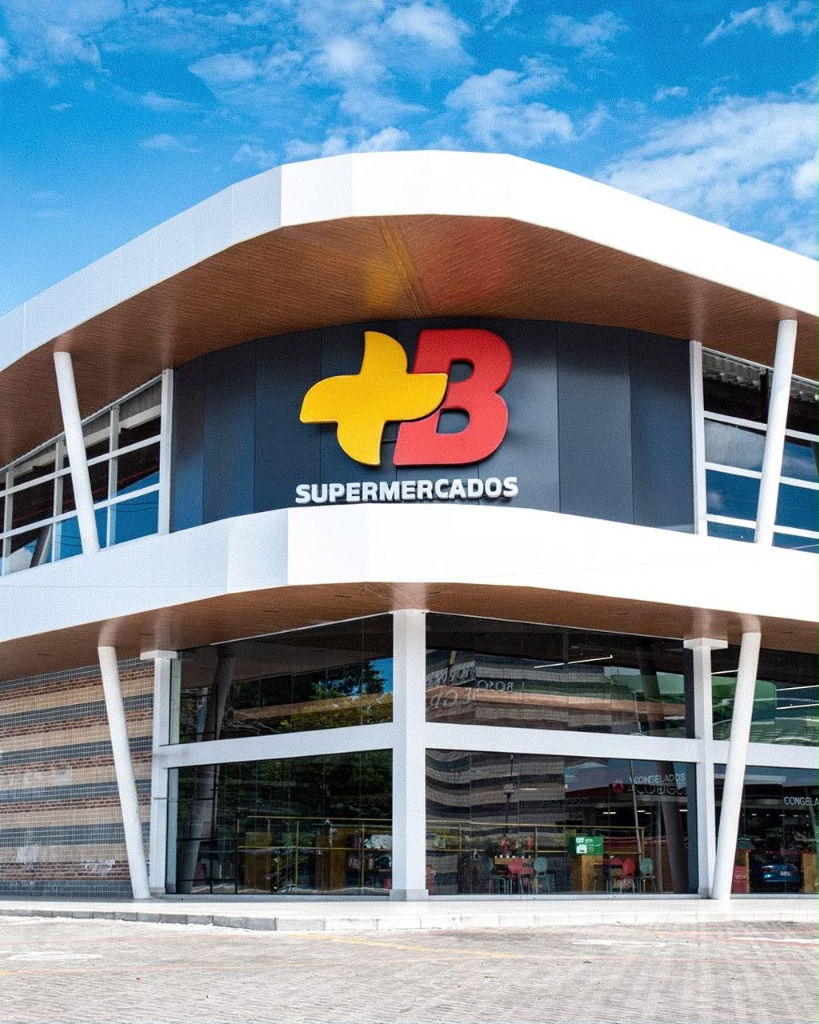
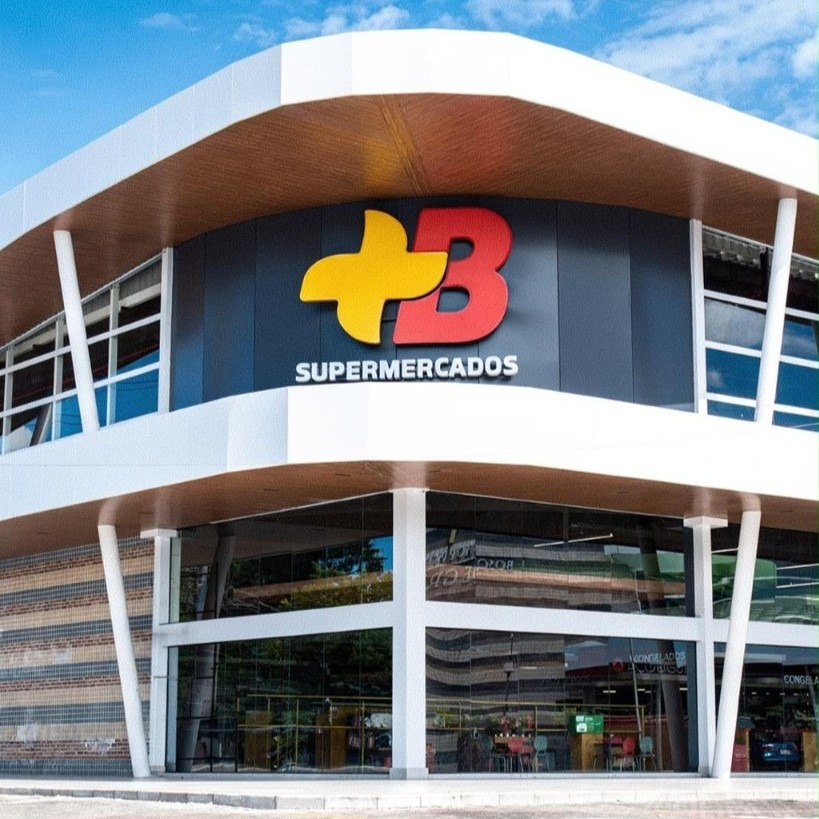
feat(home): atualiza foto da fachada s2 para proporcao 1:1 e container de 500px

diff --git a/index.html b/index.html
@@ -17,7 +17,7 @@
   <link href="https://fonts.googleapis.com/css2?family=DM+Sans:ital,opsz,wght@0,9..40,400..900;1,9..40,400..900&display=swap" rel="stylesheet">
   <link rel="stylesheet" href="https://cdn.jsdelivr.net/npm/swiper@11/swiper-bundle.min.css" />
   <script src="https://unpkg.com/lucide@0.468.0/dist/umd/lucide.min.js"></script>
-  <link rel="stylesheet" href="./src/css/main.css?v=40.7" />
+  <link rel="stylesheet" href="./src/css/main.css?v=41.0" />
   <link rel="stylesheet" href="./src/css/sections.css?v=38.2" />
   <link rel="stylesheet" href="./src/css/wpp-animation.css?v=1.9" />
 </head>
@@ -235,7 +235,7 @@
         </div>
         <div class="sobre-visual">
           <div class="sobre-photos-wrapper">
-            <img src="./assets/Fotografias/01_Fachadas/fachada-maisb-home-sobre-2026-10-21.jpg?v=2" alt="Fachada do +B Supermercados" class="sobre-main-photo" loading="lazy" decoding="async" />
+            <img src="./assets/Fotografias/01_Fachadas/fachada-maisb-home-sobre-2026-10-21.jpg?v=3" alt="Fachada do +B Supermercados" class="sobre-main-photo" loading="lazy" decoding="async" />
           </div>
         </div>
       </div>

diff --git a/src/css/main.css b/src/css/main.css
@@ -552,7 +552,7 @@ body.drawer-open {
 .sobre-text p{font-family:var(--font-sans);font-size:var(--p-size);font-weight:var(--p-weight);line-height:var(--p-lh);color:#555;margin-bottom:16px;font-style:normal;text-align:justify;text-justify:inter-word}
 .sobre-visual{display:flex;flex-direction:column;gap:0;position:relative;min-width:0;max-width:500px;width:100%;margin-left:auto}
 .sobre-photos-wrapper{border-radius:24px;overflow:hidden;box-shadow:var(--shadow-lg)}
-.sobre-main-photo{width:100%;height:auto;aspect-ratio:4 / 5;object-fit:cover;object-position:center;display:block}
+.sobre-main-photo{width:100%;height:auto;aspect-ratio:1 / 1;object-fit:cover;object-position:center;display:block}
 .metrics-bar {
   background: #121214;
   backdrop-filter: blur(12px);

diff --git a/.MD/changelog.md b/.MD/changelog.md
@@ -1,5 +1,11 @@
 # Changelog
 
+## [2.2.12] - 2026-10-21
+- **Implementação da Nova Fotografia da Fachada em Proporção 1:1 Nativa (S2 - Sobre o +B Supermercados)**:
+  - Substituição da foto da fachada pelo arquivo quadrado oficial fornecido pelo cliente (`819x819`, proporção 1:1), com enquadramento perfeito da marquise, letreiro e vidraçaria.
+  - Atualização do estilo em `src/css/main.css`: definição de `aspect-ratio: 1 / 1` em `.sobre-main-photo` e restauração da largura do container `.sobre-visual` para `max-width: 500px` no desktop (e `480px` no mobile), eliminando qualquer vão indesejado e garantindo presença visual marcante alinhada com o bloco de texto.
+  - Atualização dos cache-busters em `index.html` (`main.css?v=41.0` e `fachada-maisb-home-sobre-2026-10-21.jpg?v=3`).
+
 ## [2.2.11] - 2026-10-21
 - **Atualização da Fachada Institucional (S2 - Sobre o +B Supermercados)**:
   - Substituição da fotografia da fachada na seção "Sobre o +B Supermercados" (.s-sobre) pela imagem oficial da nova fachada com o logotipo "+B Supermercados", marquise arquitetônica e vidraçaria frontal.
